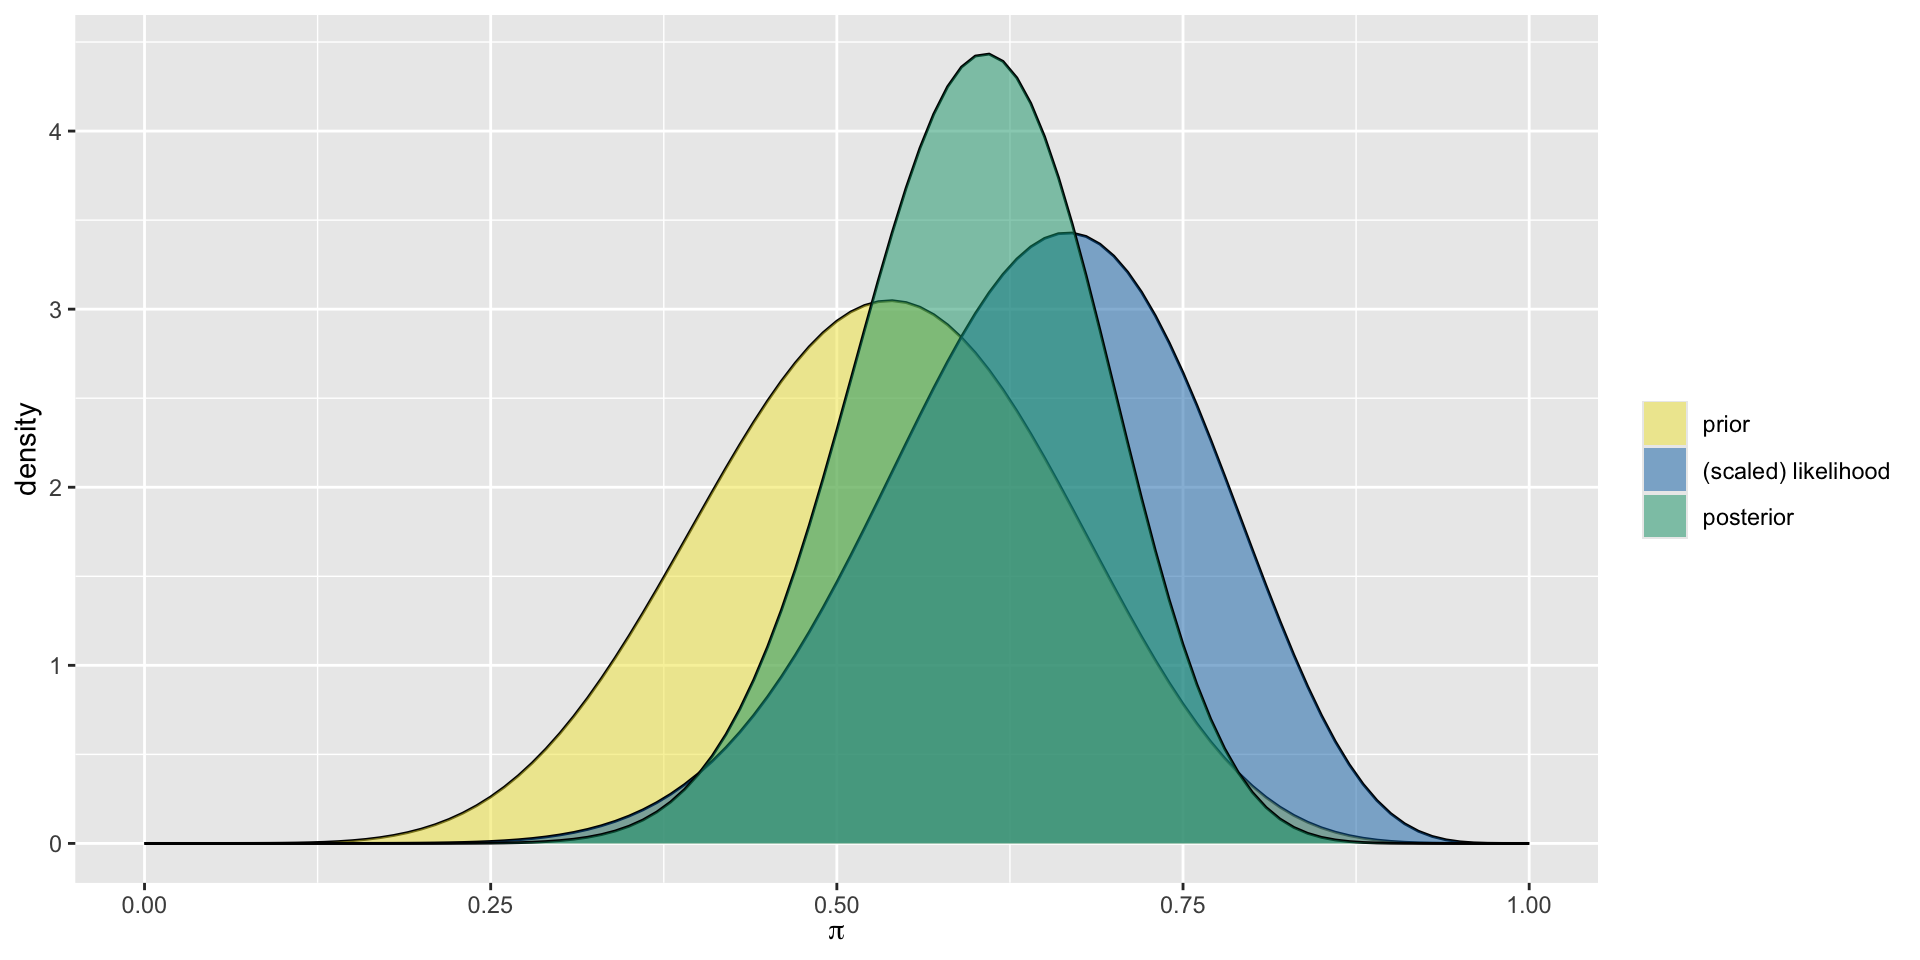
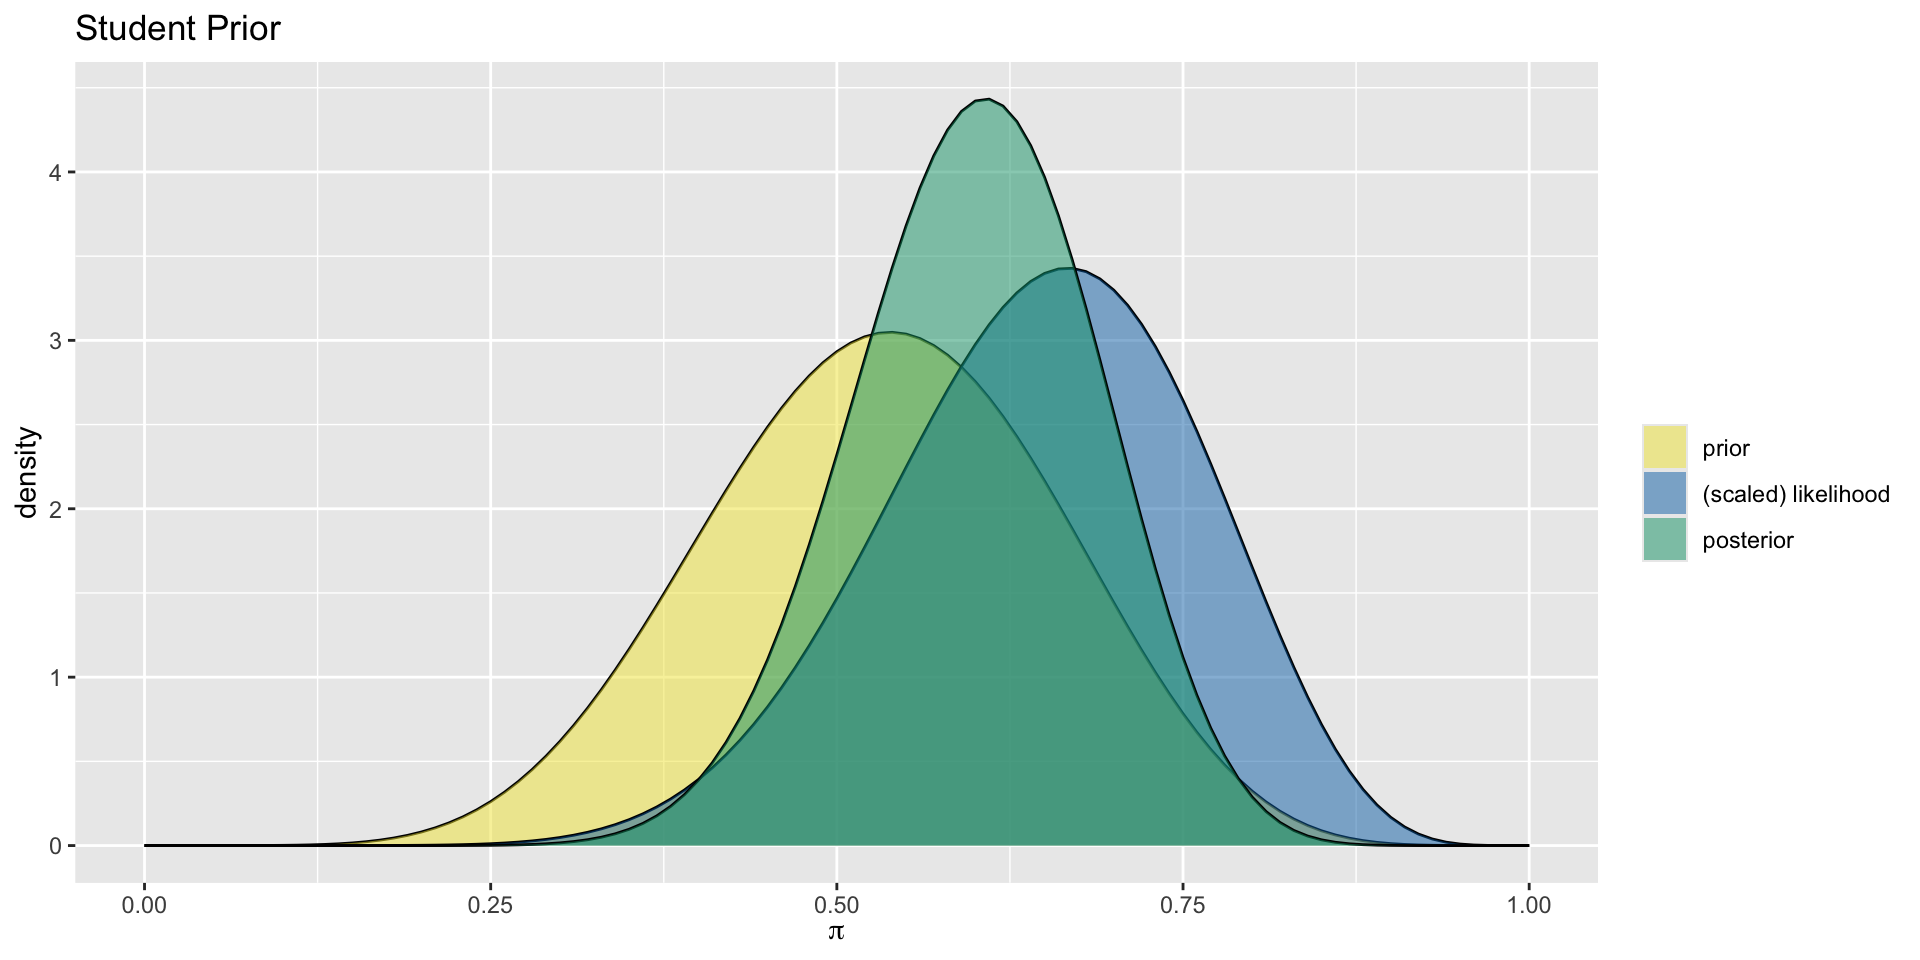
Add num_correct and total_questions to the top

diff --git a/presentation/cnn_vs_onion_beta_binomial.html b/presentation/cnn_vs_onion_beta_binomial.html
@@ -405,24 +405,25 @@ Dr.&nbsp;Laurie Baker, Assistant Professor of Mathematics, Bates College
 </section>
 <section id="about-me" class="slide level2">
 <h2>About Me</h2>
-
-<img data-src="images/laurie_baker.jpg" style="width:5.52in" alt="Photo of Laurie Baker" class="r-stretch"><h3 id="dr.-laurie-baker">Dr.&nbsp;Laurie Baker</h3>
+<div class="columns">
+<div class="column" style="width:40%;">
+<p><img data-src="images/laurie_baker.jpg" class="quarto-figure quarto-figure-left" style="width:4.52in" alt="Photo of Laurie Baker"> <a href="https://lauriebaker.rbind.io"><strong>Dr.&nbsp;Laurie Baker</strong></a> Assistant Professor of Mathematics, Bates College, Maine, USA</p>
+</div><div class="column" style="width:60%;">
 <ul>
 <li><p>BSc Marine Biology, University of St.&nbsp;Andrews</p></li>
 <li><p>Msc Marine Biology, Dalhousie University</p></li>
 <li><p>PhD Ecology and Evolution, University of Glasgow</p></li>
-<li><p>Assistant Professor of Mathematics, Bates College</p></li>
-<li><p><a href="https://lauriebaker.rbind.io">Website: https://lauriebaker.rbind.io</a></p></li>
-<li><p><a href="https://github.com/laurielbaker">Github: @LaurieLBaker</a></p></li>
 </ul>
+<p><strong>Courses</strong>: Probability, Statistical Inference, Intro to Data Science, Community-Engaged Data Science</p>
+<p><a href="https://github.com/laurielbaker">GitHub @LaurieLBaker; lbaker@bates.edu</a></p>
+</div></div>
 </section>
 <section id="outline" class="slide level2">
 <h2>Outline</h2>
 <ul>
-<li>Introduce the course context</li>
-<li>Introduce the activity</li>
-<li>Construct the prior</li>
-<li>Take the quiz!</li>
+<li>Introduce the Course Context</li>
+<li>Introduce the Activity</li>
+<li>Next Steps</li>
 </ul>
 </section>
 <section id="course-context" class="slide level2">
@@ -459,10 +460,12 @@ Dr.&nbsp;Laurie Baker, Assistant Professor of Mathematics, Bates College
 <ol type="1">
 <li>Introduce the Context</li>
 <li>Construct and Visualize Priors</li>
+<li>Discuss Vague vs.&nbsp;Informative Priors</li>
 <li>Take the Quiz</li>
 <li>Update Priors with Data and Visualize Posterior</li>
 <li>Update Priors with Class Data and Visualize Posterior</li>
 <li>Compare Posteriors from Different Priors</li>
+<li>Discussion questions</li>
 </ol>
 </section>
 <section id="introduce-priors" class="slide level2">
@@ -486,8 +489,8 @@ Dr.&nbsp;Laurie Baker, Assistant Professor of Mathematics, Bates College
 </table>
 
 <img data-src="cnn_vs_onion_beta_binomial_files/figure-revealjs/unnamed-chunk-2-1.png" class="quarto-figure quarto-figure-center r-stretch" width="1632"></section>
-<section id="students-construct-their-own-prior" class="slide level2">
-<h2>2. Students construct their own prior</h2>
+<section id="constructing-priors" class="slide level2">
+<h2>2. Constructing priors</h2>
 <p>The shape parameters <span class="math inline">\(\alpha\)</span> and <span class="math inline">\(\beta\)</span> can be interpreted as the approximate number of successes and failures.</p>
 <p><code>Beta(approx_num_correct, approx_num_wrong)</code>.</p>
 
@@ -497,33 +500,47 @@ Dr.&nbsp;Laurie Baker, Assistant Professor of Mathematics, Bates College
 
 <img data-src="cnn_vs_onion_beta_binomial_files/figure-revealjs/unnamed-chunk-4-1.png" width="960" class="r-stretch"></section>
 <section id="take-the-quiz-15-cnnonion-headlines" class="slide level2">
-<h2>3. Take the quiz (15 CNN/Onion headlines)</h2>
-
-<img data-src="images/qr-code-for-google-forms.png" alt="Google Form QR Code" class="r-stretch"><p><a href="https://docs.google.com/forms/d/e/1FAIpQLSeNADV2SfZbCNZRcwZ_2oaP1eBh8rgXKV_WKxXyQR-5QGEBlA/viewform">Link to Google Form</a></p>
+<h2>4. Take the quiz (15 CNN/Onion headlines)</h2>
+<div class="columns">
+<div class="column" style="width:20%;">
+<p><img data-src="images/qr-code-for-google-forms.png" alt="Google Form QR Code"></p>
+<p><a href="https://docs.google.com/forms/d/e/1FAIpQLSeNADV2SfZbCNZRcwZ_2oaP1eBh8rgXKV_WKxXyQR-5QGEBlA/viewform">Google Form</a></p>
+</div><div class="column" style="width:80%;">
+<iframe width="780" height="500" src="https://docs.google.com/forms/d/e/1FAIpQLSeNADV2SfZbCNZRcwZ_2oaP1eBh8rgXKV_WKxXyQR-5QGEBlA/viewform" title="Google Form"></iframe>
+</div></div>
 </section>
-<section id="update-their-prior-with-data" class="slide level2">
-<h2>4. Update their prior with data</h2>
-<p>Quiz result: 10/15, Their Prior: Beta(8,7)</p>
+<section id="update-with-data" class="slide level2">
+<h2>5. Update with data</h2>
+<p><code>summarize_beta_binomial(alpha, beta, y = NULL, n = NULL)</code> summarizes the mean, mode, and variance of the prior and posterior Beta models of <span class="math inline">\(\pi\)</span></p>
+<p><code>plot_beta_binomial(alpha, beta, y = NULL, n = NULL)</code> [function produces a plot of any combination of the corresponding]; plots prior pdf, scaled likelihood function, and posterior pdf</p>
+<p>Arguments:</p>
+<pre><code>-   `alpha, beta`: positive shape parameters of the prior Beta model
+-   `y`: number of successes
+-   `n`: number of trials</code></pre>
+</section>
+<section id="update-with-data-1" class="slide level2">
+<h2>5. Update with data</h2>
 <div class="cell">
-<div class="sourceCode cell-code" id="cb1"><pre class="sourceCode numberSource r number-lines code-with-copy"><code class="sourceCode r"><span id="cb1-1"><a href=""></a><span class="fu">summarize_beta_binomial</span>(<span class="at">alpha =</span> <span class="dv">8</span>, <span class="at">beta =</span> <span class="dv">7</span>, <span class="at">y =</span> <span class="dv">10</span>, <span class="at">n =</span> <span class="dv">15</span>)</span></code><button title="Copy to Clipboard" class="code-copy-button"><i class="bi"></i></button></pre></div>
+<div class="sourceCode cell-code" id="cb2"><pre class="sourceCode numberSource r number-lines code-with-copy"><code class="sourceCode r"><span id="cb2-1"><a href=""></a><span class="fu">summarize_beta_binomial</span>(<span class="at">alpha =</span> <span class="dv">8</span>, <span class="at">beta =</span> <span class="dv">7</span>, <span class="at">y =</span> <span class="dv">10</span>, <span class="at">n =</span> <span class="dv">15</span>)</span></code><button title="Copy to Clipboard" class="code-copy-button"><i class="bi"></i></button></pre></div>
 <div class="cell-output cell-output-stdout">
 <pre><code>      model alpha beta      mean      mode         var         sd
 1     prior     8    7 0.5333333 0.5384615 0.015555556 0.12472191
 2 posterior    18   12 0.6000000 0.6071429 0.007741935 0.08798827</code></pre>
 </div>
-<div class="sourceCode cell-code" id="cb3"><pre class="sourceCode numberSource r number-lines code-with-copy"><code class="sourceCode r"><span id="cb3-1"><a href=""></a><span class="fu">plot_beta_binomial</span>(<span class="at">alpha =</span> <span class="dv">8</span>, <span class="at">beta =</span> <span class="dv">7</span>, <span class="at">y =</span> <span class="dv">10</span>, <span class="at">n =</span> <span class="dv">15</span>)</span></code><button title="Copy to Clipboard" class="code-copy-button"><i class="bi"></i></button></pre></div>
+<div class="sourceCode cell-code" id="cb4"><pre class="sourceCode numberSource r number-lines code-with-copy"><code class="sourceCode r"><span id="cb4-1"><a href=""></a><span class="fu">plot_beta_binomial</span>(<span class="at">alpha =</span> <span class="dv">8</span>, <span class="at">beta =</span> <span class="dv">7</span>, <span class="at">y =</span> <span class="dv">10</span>, <span class="at">n =</span> <span class="dv">15</span>)   <span class="sc">+</span> </span>
+<span id="cb4-2"><a href=""></a>  <span class="fu">labs</span>(<span class="at">title =</span> <span class="st">"Student Prior"</span>)</span></code><button title="Copy to Clipboard" class="code-copy-button"><i class="bi"></i></button></pre></div>
 
 </div>
 <img data-src="cnn_vs_onion_beta_binomial_files/figure-revealjs/unnamed-chunk-5-1.png" width="960" class="r-stretch"></section>
-<section id="all-priors" class="slide level2">
-<h2>5. All priors</h2>
+<section id="update-with-data-2" class="slide level2">
+<h2>5. Update with data</h2>
 <table class="caption-top">
 <thead>
 <tr class="header">
 <th>Optimistic</th>
 <th>Undecided</th>
 <th>Pessimistic</th>
-<th>Their Prior</th>
+<th>Student Prior</th>
 </tr>
 </thead>
 <tbody>
@@ -536,18 +553,22 @@ Dr.&nbsp;Laurie Baker, Assistant Professor of Mathematics, Bates College
 </tbody>
 </table>
 <div class="cell">
-<div class="sourceCode cell-code" id="cb4"><pre class="sourceCode numberSource r number-lines code-with-copy"><code class="sourceCode r"><span id="cb4-1"><a href=""></a>optimistic_prior <span class="ot">&lt;-</span> <span class="fu">plot_beta_binomial</span>(<span class="at">alpha =</span> <span class="dv">14</span>, <span class="at">beta =</span> <span class="dv">1</span>, <span class="at">y =</span> <span class="dv">10</span>, <span class="at">n =</span> <span class="dv">15</span>)</span>
-<span id="cb4-2"><a href=""></a>undecided_prior <span class="ot">&lt;-</span> <span class="fu">plot_beta_binomial</span>(<span class="at">alpha =</span> <span class="dv">1</span>, <span class="at">beta =</span> <span class="dv">1</span>, <span class="at">y =</span> <span class="dv">10</span>, <span class="at">n =</span> <span class="dv">15</span>)</span>
-<span id="cb4-3"><a href=""></a>pessimistic_prior <span class="ot">&lt;-</span> <span class="fu">plot_beta_binomial</span>(<span class="at">alpha =</span> <span class="dv">5</span>, <span class="at">beta =</span> <span class="dv">10</span>, <span class="at">y =</span> <span class="dv">10</span>, <span class="at">n =</span> <span class="dv">15</span>)</span>
-<span id="cb4-4"><a href=""></a>their_prior <span class="ot">&lt;-</span> <span class="fu">plot_beta_binomial</span>(<span class="at">alpha =</span> <span class="dv">8</span>, <span class="at">beta =</span> <span class="dv">7</span>, <span class="at">y =</span> <span class="dv">10</span>, <span class="at">n =</span> <span class="dv">15</span>)</span></code><button title="Copy to Clipboard" class="code-copy-button"><i class="bi"></i></button></pre></div>
+<div class="sourceCode cell-code" id="cb5"><pre class="sourceCode numberSource r number-lines code-with-copy"><code class="sourceCode r"><span id="cb5-1"><a href=""></a>optimistic_prior <span class="ot">&lt;-</span> <span class="fu">plot_beta_binomial</span>(<span class="at">alpha =</span> <span class="dv">14</span>, <span class="at">beta =</span> <span class="dv">1</span>, <span class="at">y =</span> <span class="dv">10</span>, <span class="at">n =</span> <span class="dv">15</span>) <span class="sc">+</span> </span>
+<span id="cb5-2"><a href=""></a>  <span class="fu">labs</span>(<span class="at">title =</span> <span class="st">"Optimistic"</span>)</span>
+<span id="cb5-3"><a href=""></a>undecided_prior <span class="ot">&lt;-</span> <span class="fu">plot_beta_binomial</span>(<span class="at">alpha =</span> <span class="dv">1</span>, <span class="at">beta =</span> <span class="dv">1</span>, <span class="at">y =</span> <span class="dv">10</span>, <span class="at">n =</span> <span class="dv">15</span>) <span class="sc">+</span> </span>
+<span id="cb5-4"><a href=""></a>  <span class="fu">labs</span>(<span class="at">title =</span> <span class="st">"Undecided"</span>)</span>
+<span id="cb5-5"><a href=""></a>pessimistic_prior <span class="ot">&lt;-</span> <span class="fu">plot_beta_binomial</span>(<span class="at">alpha =</span> <span class="dv">5</span>, <span class="at">beta =</span> <span class="dv">10</span>, <span class="at">y =</span> <span class="dv">10</span>, <span class="at">n =</span> <span class="dv">15</span>) <span class="sc">+</span> </span>
+<span id="cb5-6"><a href=""></a>  <span class="fu">labs</span>(<span class="at">title =</span> <span class="st">"Pessimistic"</span>)</span>
+<span id="cb5-7"><a href=""></a>student_prior <span class="ot">&lt;-</span> <span class="fu">plot_beta_binomial</span>(<span class="at">alpha =</span> <span class="dv">8</span>, <span class="at">beta =</span> <span class="dv">7</span>, <span class="at">y =</span> <span class="dv">10</span>, <span class="at">n =</span> <span class="dv">15</span>)  <span class="sc">+</span> </span>
+<span id="cb5-8"><a href=""></a>  <span class="fu">labs</span>(<span class="at">title =</span> <span class="st">"Student Prior"</span>)</span></code><button title="Copy to Clipboard" class="code-copy-button"><i class="bi"></i></button></pre></div>
 </div>
 </section>
-<section id="all-priors-1" class="slide level2">
-<h2>All Priors</h2>
+<section id="update-with-data-3" class="slide level2">
+<h2>5. Update with data</h2>
 
 <img data-src="cnn_vs_onion_beta_binomial_files/figure-revealjs/unnamed-chunk-7-1.png" width="960" class="r-stretch"></section>
-<section id="pool-with-neighbor-then-class-and-repeat-update" class="slide level2">
-<h2>5. Pool with neighbor, then class and repeat update</h2>
+<section id="update-with-neighbor-and-class-data" class="slide level2">
+<h2>6. Update with neighbor and class data</h2>
 <p>With class data: 80 correct out of 150 questions</p>
 <table class="caption-top">
 <thead>
@@ -555,7 +576,7 @@ Dr.&nbsp;Laurie Baker, Assistant Professor of Mathematics, Bates College
 <th>Optimistic</th>
 <th>Undecided</th>
 <th>Pessimistic</th>
-<th>Their Prior</th>
+<th>Student Prior</th>
 </tr>
 </thead>
 <tbody>
@@ -568,18 +589,22 @@ Dr.&nbsp;Laurie Baker, Assistant Professor of Mathematics, Bates College
 </tbody>
 </table>
 <div class="cell">
-<div class="sourceCode cell-code" id="cb5"><pre class="sourceCode numberSource r number-lines code-with-copy"><code class="sourceCode r"><span id="cb5-1"><a href=""></a>optimist <span class="ot">&lt;-</span> <span class="fu">plot_beta_binomial</span>(<span class="at">alpha =</span> <span class="dv">14</span>, <span class="at">beta =</span> <span class="dv">1</span>, <span class="at">y =</span> <span class="dv">80</span>, <span class="at">n =</span> <span class="dv">150</span>)</span>
-<span id="cb5-2"><a href=""></a>undecided <span class="ot">&lt;-</span> <span class="fu">plot_beta_binomial</span>(<span class="at">alpha =</span> <span class="dv">1</span>, <span class="at">beta =</span> <span class="dv">1</span>, <span class="at">y =</span> <span class="dv">80</span>, <span class="at">n =</span> <span class="dv">150</span>)</span>
-<span id="cb5-3"><a href=""></a>pessimist <span class="ot">&lt;-</span> <span class="fu">plot_beta_binomial</span>(<span class="at">alpha =</span> <span class="dv">5</span>, <span class="at">beta =</span> <span class="dv">10</span>, <span class="at">y =</span> <span class="dv">80</span>, <span class="at">n =</span> <span class="dv">150</span>)</span>
-<span id="cb5-4"><a href=""></a>their_prior <span class="ot">&lt;-</span> <span class="fu">plot_beta_binomial</span>(<span class="at">alpha =</span> <span class="dv">8</span>, <span class="at">beta =</span> <span class="dv">7</span>, <span class="at">y =</span> <span class="dv">80</span>, <span class="at">n =</span> <span class="dv">150</span>)</span></code><button title="Copy to Clipboard" class="code-copy-button"><i class="bi"></i></button></pre></div>
+<div class="sourceCode cell-code" id="cb6"><pre class="sourceCode numberSource r number-lines code-with-copy"><code class="sourceCode r"><span id="cb6-1"><a href=""></a>optimist <span class="ot">&lt;-</span> <span class="fu">plot_beta_binomial</span>(<span class="at">alpha =</span> <span class="dv">14</span>, <span class="at">beta =</span> <span class="dv">1</span>, <span class="at">y =</span> <span class="dv">80</span>, <span class="at">n =</span> <span class="dv">150</span>) <span class="sc">+</span> </span>
+<span id="cb6-2"><a href=""></a>  <span class="fu">labs</span>(<span class="at">title =</span> <span class="st">"Optimistic"</span>)</span>
+<span id="cb6-3"><a href=""></a>undecided <span class="ot">&lt;-</span> <span class="fu">plot_beta_binomial</span>(<span class="at">alpha =</span> <span class="dv">1</span>, <span class="at">beta =</span> <span class="dv">1</span>, <span class="at">y =</span> <span class="dv">80</span>, <span class="at">n =</span> <span class="dv">150</span>) <span class="sc">+</span> </span>
+<span id="cb6-4"><a href=""></a>  <span class="fu">labs</span>(<span class="at">title =</span> <span class="st">"Undecided"</span>)</span>
+<span id="cb6-5"><a href=""></a>pessimist <span class="ot">&lt;-</span> <span class="fu">plot_beta_binomial</span>(<span class="at">alpha =</span> <span class="dv">5</span>, <span class="at">beta =</span> <span class="dv">10</span>, <span class="at">y =</span> <span class="dv">80</span>, <span class="at">n =</span> <span class="dv">150</span>) <span class="sc">+</span> </span>
+<span id="cb6-6"><a href=""></a>  <span class="fu">labs</span>(<span class="at">title =</span> <span class="st">"Pessimistic"</span>)</span>
+<span id="cb6-7"><a href=""></a>student_prior <span class="ot">&lt;-</span> <span class="fu">plot_beta_binomial</span>(<span class="at">alpha =</span> <span class="dv">8</span>, <span class="at">beta =</span> <span class="dv">7</span>, <span class="at">y =</span> <span class="dv">80</span>, <span class="at">n =</span> <span class="dv">150</span>) <span class="sc">+</span> </span>
+<span id="cb6-8"><a href=""></a>  <span class="fu">labs</span>(<span class="at">title =</span> <span class="st">"Student Prior"</span>)</span></code><button title="Copy to Clipboard" class="code-copy-button"><i class="bi"></i></button></pre></div>
 </div>
 </section>
 <section id="compare-effects-of-prior-choice-on-the-posterior" class="slide level2">
-<h2>6. Compare effects of prior choice on the posterior</h2>
+<h2>7. Compare effects of prior choice on the posterior</h2>
 
 <img data-src="cnn_vs_onion_beta_binomial_files/figure-revealjs/unnamed-chunk-9-1.png" width="960" class="r-stretch"></section>
-<section id="reflection-questions" class="slide level2">
-<h2>Reflection Questions</h2>
+<section id="discussion-questions" class="slide level2">
+<h2>8. Discussion Questions</h2>
 <ul>
 <li><p>How does observing more data affect the shape of the posterior?</p></li>
 <li><p>What happens to the posterior mean as you observe more correct or incorrect outcomes?</p></li>
@@ -591,10 +616,21 @@ Dr.&nbsp;Laurie Baker, Assistant Professor of Mathematics, Bates College
 <iframe width="780" height="500" src="https://bayes-bats.github.io/tier2-short-term/course-materials/labs/beta_binomial_cnn_vs_onion/cnn_vs_onion_beta_binomial.html" title="CNN vs The Onion - Bayesian Thinking Activity"></iframe>
 <p><a href="https://bayes-bats.github.io/tier2-short-term/course-materials/labs/beta_binomial_cnn_vs_onion/cnn_vs_onion_beta_binomial.html">Activity Link</a>; <a href="https://bayes-bats.github.io/tier2-short-term/course-materials/labs/beta_binomial_cnn_vs_onion/cnn_vs_onion_facilitator.html">Instructor Guide</a>; <a href="https://bayes-bats.github.io/tier2-short-term/">Github Readme Homepage Link</a></p>
 </section>
+<section id="conclusions-and-next-steps" class="slide level2">
+<h2>Conclusions and Next Steps</h2>
+<ul>
+<li>Fun activity where students generate their own data and explore Bayesian thinking.</li>
+<li>Plan to gather feedback from students on activity in coming year.</li>
+<li>Make updates based on student and facilitator feedback.</li>
+<li>Adapt activity for different levels of R knowledge.</li>
+<li>Streamline webr experience (missing BayesRule package).</li>
+</ul>
+</section>
 <section id="thanks" class="slide level2">
 <h2>Thanks</h2>
-<p>Thanks to co-authors Jim Scott (Colby College) and Mine Dogucu (UC Irvine).</p>
-<p>This work was supported by the National Science Foundation under Grant Nos #2215879, #2215920, and #2215709.</p>
+<p>Big thanks to co-authors Jim Scott (Colby College) and Mine Dogucu (UC Irvine).</p>
+
+<img data-src="images/baseball_stats_joke.png" alt="Onion Headline: Baseball Statisticians Unveil New Analytics Model Measuring Precise Amount of Joy They Suck From The Game" class="r-stretch"><p>This work was supported by the National Science Foundation under Grant Nos #2215879, #2215920, and #2215709.</p>
 <div class="quarto-auto-generated-content">
 <div class="footer footer-default">
 
